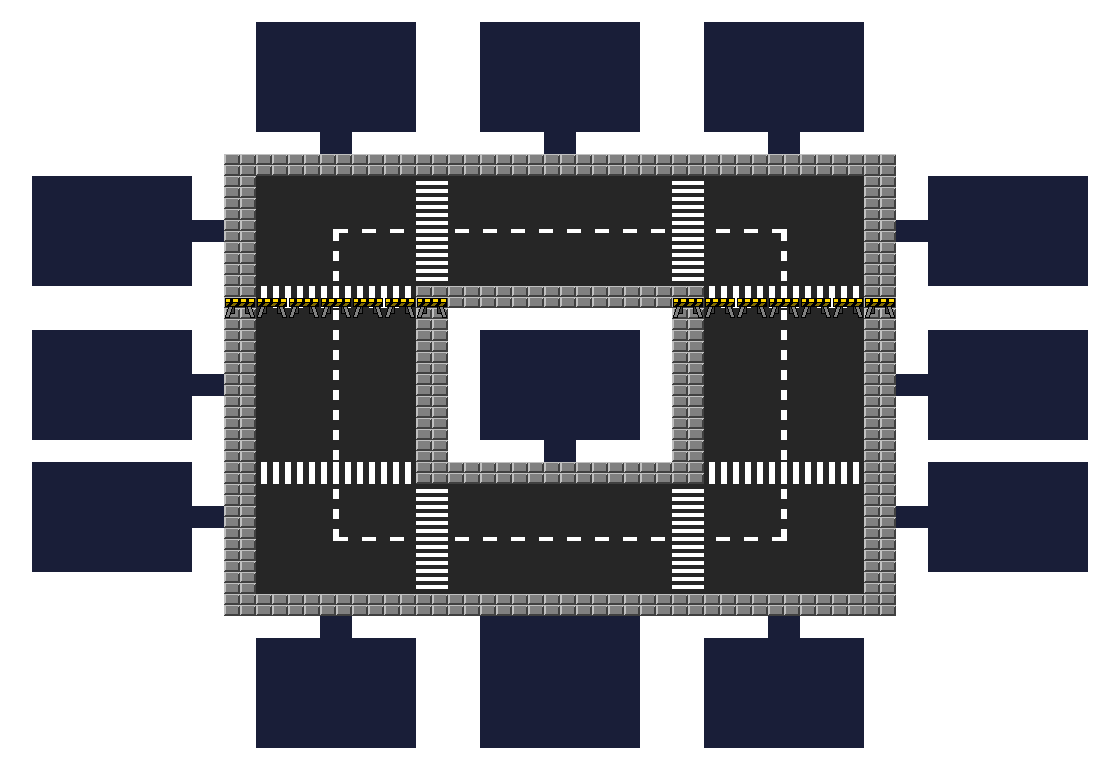
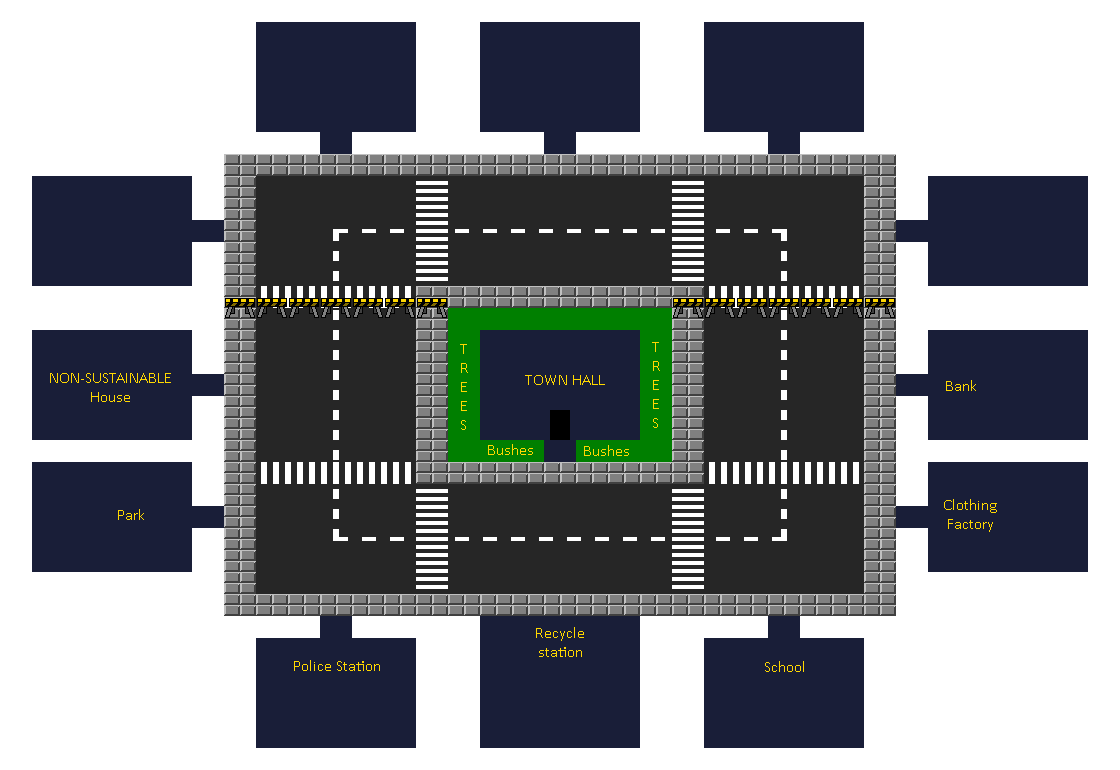
er i gang med at lave alle døre

Changed region(s): [[0.375, 0.374, 0.625, 0.6234], [0.0938, 0.4675, 0.1562, 0.4987], [0.8438, 0.6545, 0.875, 0.6857]]

diff --git a/Sustainia/src/main/java/com/mycompany/sustainia/Game.java b/Sustainia/src/main/java/com/mycompany/sustainia/Game.java
@@ -2,13 +2,12 @@ package com.mycompany.sustainia;
 
 public class Game {
     boolean roomSwitch = true;
-    
-    Room placeHolder;
-    Room currentRoom;
+
     int previousRoom;
     
     Room townHall, streets, nonsustainableHouse, policeStation, bank, clothingFactory, school, park, recyclingStation;
     
+    Room currentRoom;
  // private Inventory inv;
         
     public static String name;
@@ -18,61 +17,113 @@ public class Game {
         Parameter.createParameters();
   //    inv = new Inventory();
     }
-
-
-    public void createRooms(){
-        streets = new Room("Streets", new int[]{560, 2}, new int[]{450, 5},
+    
+    
+    public void createStreets(){
+        streets = new Room("Streets", new int[][]{
+            // Front of Town Hall
+            {560,460},
+            // Front of Non-Sustainable house
+            {208,374}
+        },
         new HitBox[]{
             // Level Barrier
-            new HitBox(0,298,1120,0)},
+            new HitBox(0,298,1120,20),
+            // TownHall
+            new HitBox(448,318,224,110), new HitBox(448,428,96,34), new HitBox(576,428,96,34)},
  
-            // Town Hall
-            new Door(new HitBox(700,700,64,10), placeHolder)
+            new HitBox[]{
+                // Town Hall door
+                new HitBox(550,410,20,30),
+                // Non-Sustainable house door
+                new HitBox(170,374,22,22),
+                // Park door
+                new HitBox(170,506,22,22),
+                // Bank door
+                new HitBox(928,374,22,22),
+                // Clothing Factory door
+                new HitBox(928,506,22,22),
+                // Police Station door
+                new HitBox(320,638,32,22),
+                // Recycle Station door
+                new HitBox(544,616,32,22),
+                // School door
+                new HitBox(768,638,32,22)
+            }
         );
-
+    }
+    
+    public void createTownHall(){
         townHall = new Room("Town Hall", 128, 194,
-                new HitBox[]{
-                    //Walls
-                    new HitBox(0,0,256,44), new HitBox(0,187,96,22), new HitBox(160,187,96,22), new HitBox(-10,44,10,143), new HitBox(256,44,10,143)},
-                new Door(new HitBox(96,209,64,10), streets)
+            new HitBox[]{
+                //Walls
+                new HitBox(0,0,256,44), new HitBox(0,187,96,22), new HitBox(160,187,96,22), new HitBox(-10,44,10,143), new HitBox(256,44,10,143)},
+            new Door(new HitBox(96,209,64,10), streets)
         );
-
-        nonsustainableHouse = new Room("NSH", 240, 104,
+    }
+        
+    public void createNonsustainableHouse(){
+        nonsustainableHouse = new Room("NSH", 240, 115,
                 new HitBox[]{new HitBox(0,0,10,10)},
-                new Door(new HitBox(96,209,64,10), streets)
+                new Door(new HitBox(256,104,10,44), streets)
         );
+    }
 
+    public void createPoliceStation(){
         policeStation = new Room("Police Station", 16, 128,
                 new HitBox[]{new HitBox(0,0,10,10)},
                 new Door(new HitBox(96,209,64,10), streets)
         );
+    }
 
+    public void createBank(){
         bank = new Room("Bank", 16, 104,
                 new HitBox[]{new HitBox(0,0,10,10)},
                 new Door(new HitBox(96,209,64,10), streets)
         );
+    }
 
+    public void createClothingFactory(){
         clothingFactory = new Room("Colothing Factory", 16, 104,
                 new HitBox[]{new HitBox(0,0,10,10)},
                 new Door(new HitBox(96,209,64,10), streets)
         );
-
+    }
+    
+    public void createSchool(){
         school = new Room("School", 128, 32,
                 new HitBox[]{new HitBox(0,0,10,10)},
                 new Door(new HitBox(96,209,64,10), streets)
         );
-
+    }
+    
+    public void createPark(){
         park = new Room("Park", 240, 104,
                 new HitBox[]{new HitBox(0,0,10,10)},
                 new Door(new HitBox(96,209,64,10), streets)
         );
+    }
 
+    public void createRecyclingStation(){
         recyclingStation = new Room("Recycling Station", 16, 128,
                 new HitBox[]{new HitBox(0,0,10,10)},
                 new Door(new HitBox(96,209,64,10), streets)
         );
+    }
+    
+    public void createRooms(){
+            createStreets();
+            createTownHall();
+            createNonsustainableHouse();
+            createPoliceStation();
+            createBank();
+            createClothingFactory();
+            createSchool();
+            createPark();
+            createRecyclingStation();
+            currentRoom = townHall;
+        }
 
-        currentRoom = townHall;
         
         
         /** Rooms are created and named.
@@ -95,8 +146,8 @@ public class Game {
         int[] hospitalItems = new int[]{0,0,0,50,30,20,0,10,60,0};
     
     */
-    }
     
+        
     
     public int collisionDetectionX(int dx){
         for (int i = 0; i < currentRoom.hitboxesInRoom.length; i++) {
@@ -123,21 +174,55 @@ public class Game {
     }
     
     
-    public void collisionWithObjects(int x, int y){
-        for (int i = 0; i < currentRoom.hitboxesInRoom.length; i++){
-            currentRoom.hitboxesInRoom[i].collisionWithObject(x, y);
+    public void collisionWithObjects(int x, int y, Room room){
+        for (int i = 0; i < room.hitboxesInRoom.length; i++){
+            room.hitboxesInRoom[i].collisionWithObject(x, y);
         }
     }
     
     
     public Room newRoom(int x, int y, Room room){
-        currentRoom.door.doorFrame.collisionWithObject(x, y);
-        System.out.println(currentRoom.door.doorFrame.checkIfTriggered());
-        if (currentRoom.door.doorFrame.checkIfTriggered()){
-            room = currentRoom.door.leadsTo;
-            roomSwitch = true;
+        System.out.println(room.name);
+        if (room.equals(streets)){
+            for (int i =0; i<streets.multipleDoors.length; i++){
+            streets.multipleDoors[i].collisionWithObject(x, y);
+                if (streets.multipleDoors[0].checkIfTriggered()){
+                    room = townHall;
+                    roomSwitch = true;
+                } else if (streets.multipleDoors[1].checkIfTriggered()){
+                    room = nonsustainableHouse;
+                    roomSwitch = true;
+                } else if (streets.multipleDoors[2].checkIfTriggered()){
+                    room = park;
+                    roomSwitch = true;
+                } else if (streets.multipleDoors[3].checkIfTriggered()){
+                    room = bank;
+                    roomSwitch = true;
+                } else if (streets.multipleDoors[4].checkIfTriggered()){
+                    room = clothingFactory;
+                    roomSwitch = true;
+                } else if (streets.multipleDoors[5].checkIfTriggered()){
+                    room = policeStation;
+                    roomSwitch = true;
+                } else if (streets.multipleDoors[6].checkIfTriggered()){
+                    room = recyclingStation;
+                    roomSwitch = true;
+                } else if (streets.multipleDoors[7].checkIfTriggered()){
+                    room = school;
+                    roomSwitch = true;
+                } else {
+                    room = room;
+                }
+            }
         } else {
-            room = currentRoom;
+            room.door.doorFrame.collisionWithObject(x, y);
+            //System.out.println(currentRoom.door.doorFrame.checkIfTriggered());
+            if (room.door.doorFrame.checkIfTriggered()){
+                room = room.door.leadsTo;
+                roomSwitch = true;
+            } else {
+                room = room;
+            }
         }
         return room;
     }
@@ -146,7 +231,8 @@ public class Game {
     public int getSpawnPointX(int x, Room room, int previousRoom){
         if (roomSwitch){
             if (room.equals(streets)){
-                x = -World.characterX +600*World.scale;
+                //x = -300 + 560*4;
+                x = -World.characterX +streets.multipleSpawnPoints[previousRoom][0]*World.scale;
             } else {
                 x = -World.characterX +room.spawnPX*World.scale;
             }
@@ -160,11 +246,11 @@ public class Game {
     public int getSpawnPointY(int y, Room room, int previousRoom){
         if (roomSwitch){
             if (room.equals(streets)){
-                y = -World.characterY +450*World.scale;
+                //y = -300 +450*4;
+                y = -World.characterY +streets.multipleSpawnPoints[previousRoom][1]*World.scale;
             } else {
                 y = -World.characterY +room.spawnPY*World.scale;
             }
-            
             roomSwitch = false;  
         } else {
             y = y;

diff --git a/Sustainia/src/main/java/com/mycompany/sustainia/App.java b/Sustainia/src/main/java/com/mycompany/sustainia/App.java
@@ -105,7 +105,7 @@ public class App extends Application {
     private ImageView character;
     
     public App(){
-        game.createRooms();
+        game.createRooms();        
     }
     
     @Override
@@ -234,8 +234,6 @@ public class App extends Application {
                     // All the metods, that need to be updatet during runtime are called here.
                     moveCharacter(moving, goNorth, goSouth, goEast, goWest, dx, dy, animationTimer, facing);
                     drawRoom(game.currentRoom);
-                    System.out.println(game.currentRoom.name);
-                    System.out.println(game.previousRoom);
                     game.currentRoom = game.newRoom(World.gameX, World.gameY, game.currentRoom);
                 }
             };
@@ -255,7 +253,7 @@ public class App extends Application {
         this.streetTop.setY(World.gameY);
         
         // The games cordinants are needet to position the collision.... If this function is not called, the game will run without collision.
-        game.collisionWithObjects(World.gameX, World.gameY);
+        game.collisionWithObjects(World.gameX, World.gameY, game.currentRoom);
 
         // character_animation
         if (moving) {
@@ -290,7 +288,6 @@ public class App extends Application {
     private void drawRoom(Room currentRoom){
         World.gameX = game.getSpawnPointX(World.gameX, currentRoom, game.previousRoom);
         World.gameY = game.getSpawnPointY(World.gameY, currentRoom, game.previousRoom);
-        System.out.println(World.gameY);
         
         if (currentRoom.equals(game.streets)){
            roomX = 0;

diff --git a/Sustainia/src/main/java/com/mycompany/sustainia/Room.java b/Sustainia/src/main/java/com/mycompany/sustainia/Room.java
@@ -15,7 +15,7 @@ public class Room {
     HitBox[] hitboxesInRoom;
     
     Door door;
-    Door[] multipleDoors;
+    HitBox[] multipleDoors;
             
     public Room(String name, int spawnPX, int spawnPY, HitBox[] hitboxesInRoom, Door door) {
         this.name = name;
@@ -26,11 +26,10 @@ public class Room {
     }
     
     
-    public Room(String name, int[] multiSpawnPX, int[] multiSpawnPY, HitBox[] hitboxesInRoom, Door door) {
+    public Room(String name, int[][] multipleSpawnPoints, HitBox[] hitboxesInRoom, HitBox[] multipleDoors) {
         this.name = name;
-        this.multiSpawnPX = multiSpawnPX;
-        this.multiSpawnPY = multiSpawnPY;
+        this.multipleSpawnPoints = multipleSpawnPoints;
         this.hitboxesInRoom = hitboxesInRoom;
-        this.door = door;
+        this.multipleDoors = multipleDoors;
     }
 }

diff --git a/Sustainia/src/main/java/com/mycompany/sustainia/World.java b/Sustainia/src/main/java/com/mycompany/sustainia/World.java
@@ -14,7 +14,7 @@ public class World {
      * Because you view the game ad a 45 degree angle, the horizontal movmentspeed will alwayes equal sqrt((Vspeed^2)*2)) 
      */
     public static int characterMovementSpeedV = 1*scale;
-    public static int characterMovementSpeedH = (int)1.5*scale;
+    public static int characterMovementSpeedH = (int)(1.5*scale);
     
     // here the starting width and hight of the game part of the screen is defined.
     public static int gameScreenWidth = 600;
